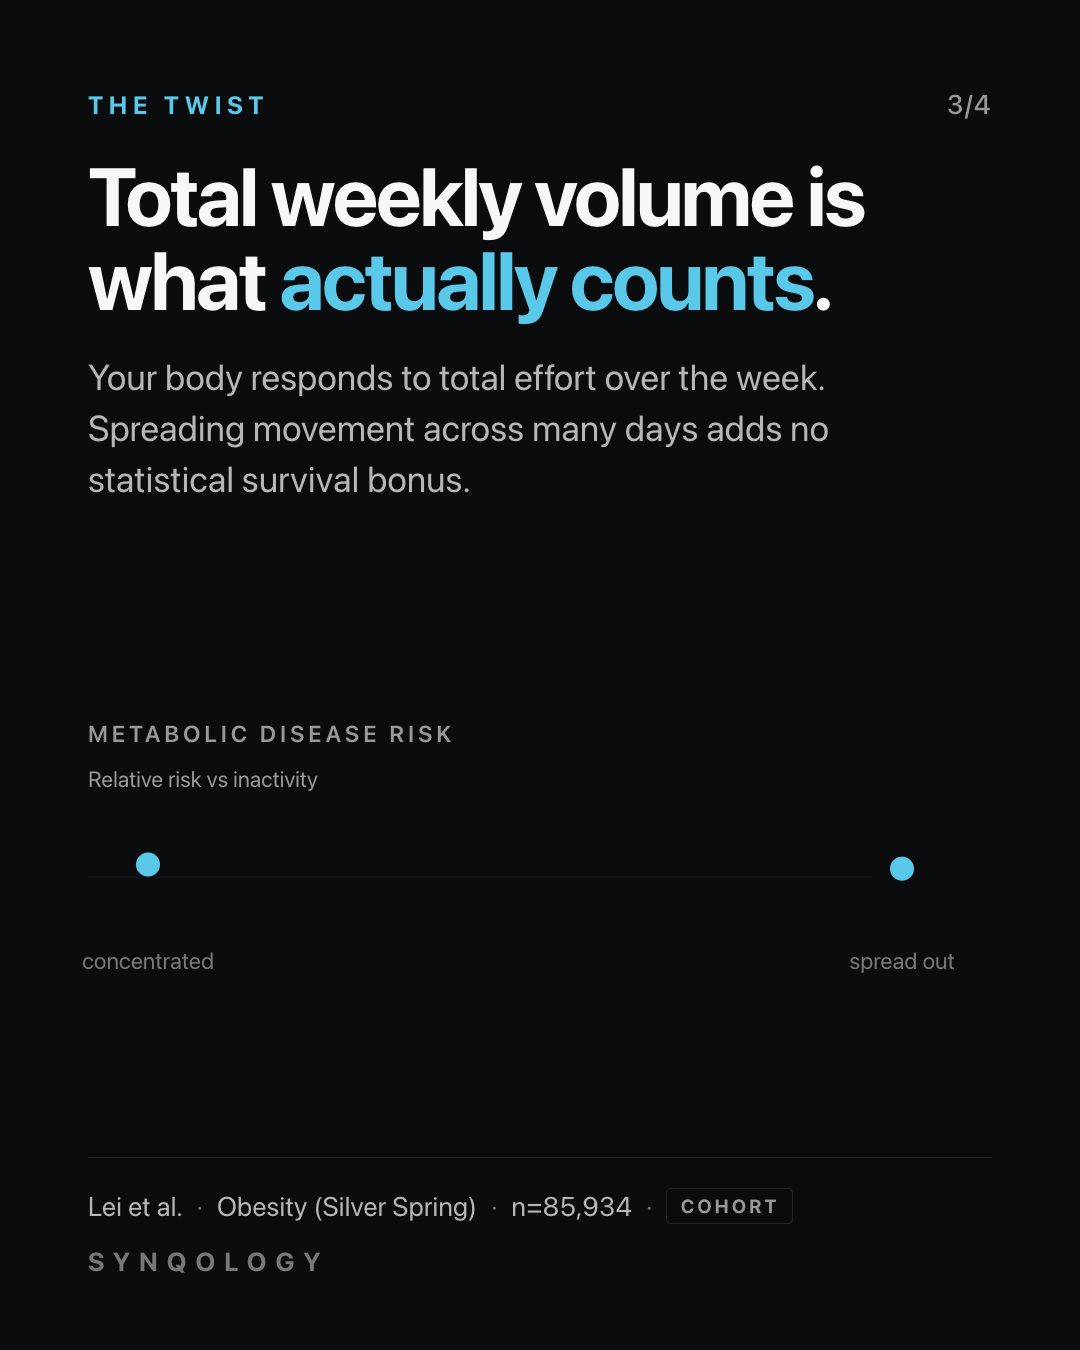
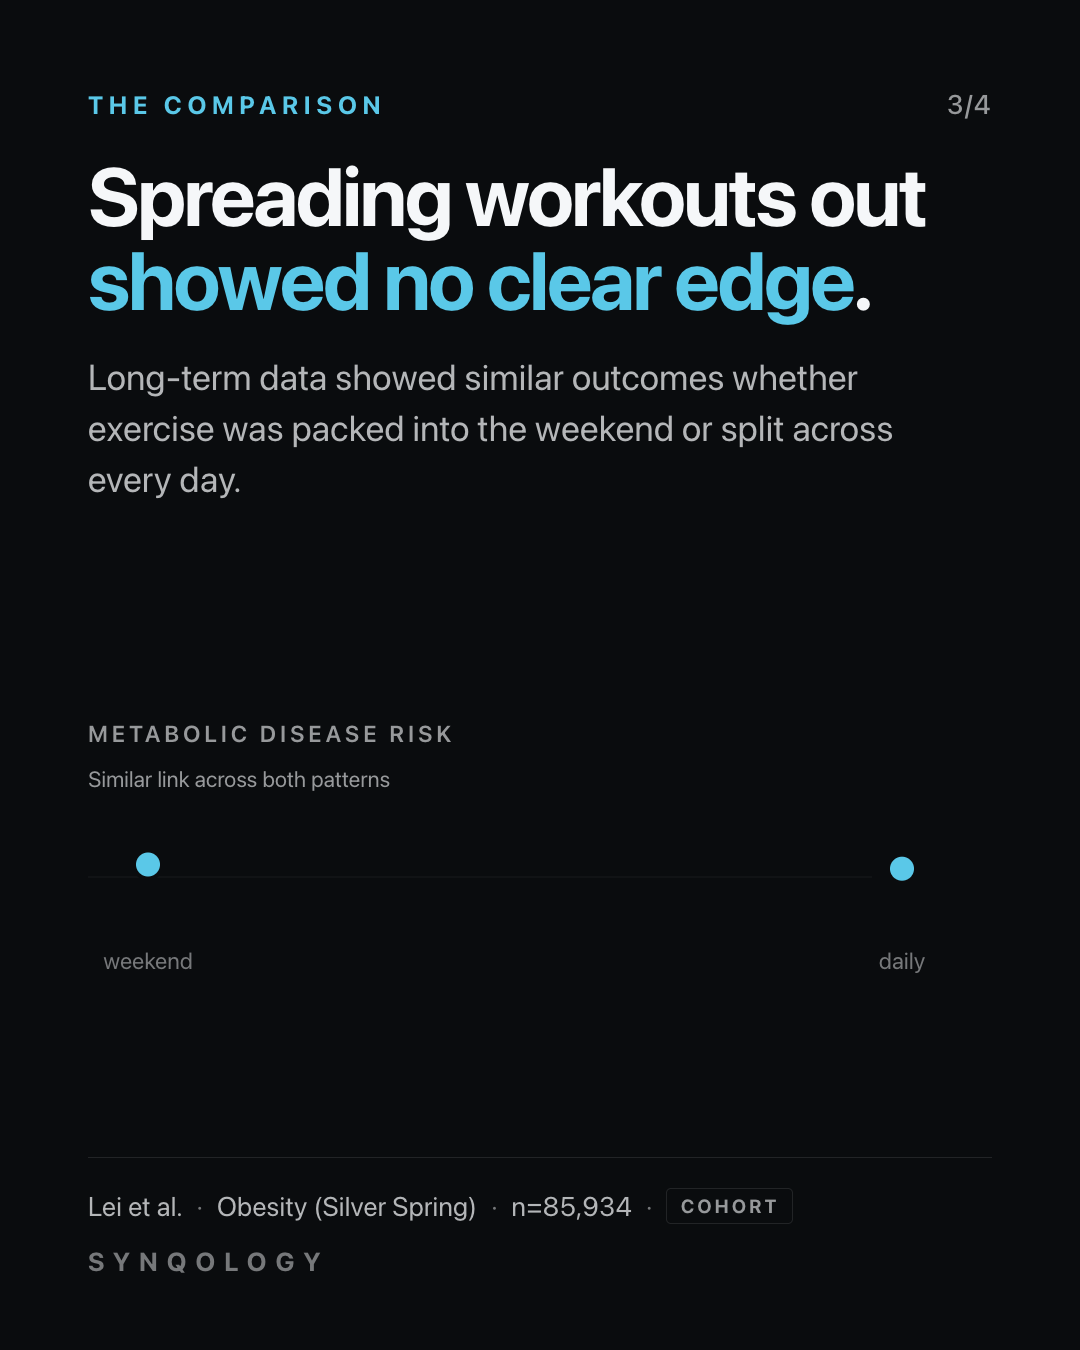
feat(creative): a readability gate — the plain sentence is the headline
The reference format titles itself "What kills you at each age" and demotes
"share of deaths by cause, by age" to a small caption underneath. Ours had that
inverted: the jargon was the headline. That is the difference between content
that travels and content that is merely correct.

The gate refuses clinical vocabulary in the kicker, headline, body and chart
labels, and names the plain replacement in the rejection so it teaches rather
than merely refuses — "cardiovascular" says heart, "mortality" says dying,
"sedentary" says sitting. The precise term still exists; it lives in the source
line, not where somebody decides whether to keep reading. Headlines are capped
at twelve words, labels at three.

It fired immediately on a thirteen-word headline and the rewrite came back
plain.

That exposed the causal gate letting things through. One n=315 tier-C trial
among twenty-one cohort studies was enough to flip "is this experimental" and
unlock "cuts your risk of dying". A trial now has to be tier A or B to carry a
causal claim on its own.

Causal verbs are matched on word boundaries and include bare infinitives, which
substring matching missed — it caught "protects" and not "protect". Bare
"cause", "cut" and "lower" are deliberately excluded: each is also a noun or
adjective in exactly the phrasing this gate exists to encourage. "Linked to
lower risk" is the correct way to report an association, and flagging it would
[…]

diff --git a/provenance/creative.py b/provenance/creative.py
@@ -23,7 +23,7 @@ from enum import Enum
 
 from pydantic import BaseModel, Field
 
-from .models import Appraisal, Claim, Finding, Paper
+from .models import Appraisal, Claim, EvidenceTier, Finding, Paper
 
 log = logging.getLogger(__name__)
 
@@ -175,11 +175,22 @@ def check_copy(
 #: cannot support them however large its cohort, and this is the single most
 #: common way health copy overstates its evidence -- far more common, and far
 #: harder to spot, than an invented figure.
+#: Bare "cause", "cut" and "lower" are deliberately absent. Each is also a noun
+#: or an adjective in exactly the phrasing this gate is trying to ENCOURAGE --
+#: "linked to lower risk" is the correct way to report an association, and
+#: flagging it would push writers back toward the causal wording. Only the
+#: inflected forms, which are unambiguously verbs, are refused.
 _CAUSAL_VERBS = (
-    "causes", "caused", "cuts", "cut ", "reduces", "reduced", "prevents",
-    "prevented", "boosts", "boosted", "improves", "improved", "protects",
-    "protected", "lowers", "lowered", "increases your", "leads to", "makes you",
-    "adds years", "buys you", "gives you",
+    "causes", "caused", "causing",
+    "cuts", "cutting",
+    "reduce", "reduces", "reduced", "reducing",
+    "prevent", "prevents", "prevented", "preventing",
+    "boost", "boosts", "boosted", "boosting",
+    "improve", "improves", "improved", "improving",
+    "protect", "protects", "protected", "protecting",
+    "lowers", "lowered", "lowering",
+    "slash", "slashes", "halve", "halves",
+    "leads to", "makes you", "adds years", "buys you", "gives you",
 )
 
 #: Intensifiers a study result does not license. "Substantial" belongs to the
@@ -201,15 +212,23 @@ _EXPERIMENTAL = ("randomis", "randomiz", "controlled trial", "crossover trial")
 
 
 def _is_observational(appraisals: dict[str, Appraisal], paper_ids: list[str]) -> bool:
-    """True when nothing in the evidence base is experimental."""
-    designs = [
-        (appraisals[pid].design or "").lower()
+    """True unless a STRONG experimental study supports the finding.
+
+    "Any randomised study anywhere in the evidence base" is too low a bar. A
+    single n=315 trial of an intermediate outcome, sitting among twenty-one
+    cohort studies of mortality, is not what licenses "cuts your risk of dying"
+    -- and that is exactly the shape of evidence this system keeps
+    encountering. The trial has to be strong enough to carry the claim on its
+    own, which is what tier A or B means.
+    """
+    strong_experimental = [
+        appraisals[pid]
         for pid in paper_ids
         if pid in appraisals
+        and appraisals[pid].tier in {EvidenceTier.A, EvidenceTier.B}
+        and any(k in (appraisals[pid].design or "").lower() for k in _EXPERIMENTAL)
     ]
-    if not designs:
-        return True
-    return not any(any(k in d for k in _EXPERIMENTAL) for d in designs)
+    return not strong_experimental
 
 
 def check_language(
@@ -228,7 +247,7 @@ def check_language(
             text = (getattr(slide, field, "") or "").lower()
 
             for word in _INTENSIFIERS:
-                if word in text:
+                if re.search(rf"\b{re.escape(word)}\b", text):
                     failures.append(GateFailure(
                         slide=index, field=field,
                         detail=(
@@ -240,7 +259,7 @@ def check_language(
             if not observational:
                 continue
             for verb in _CAUSAL_VERBS:
-                if verb in text:
+                if re.search(rf"\b{re.escape(verb)}\b", text):
                     failures.append(GateFailure(
                         slide=index, field=field,
                         detail=(
@@ -305,6 +324,109 @@ def check_structure(plan: StoryPlan) -> list[GateFailure]:
                 f"this format exists."
             ),
         ))
+    return failures
+
+
+#: Words that carry precise meaning in a paper and none at all on a phone.
+#: The value is the plain replacement, so a rejection teaches rather than
+#: merely refuses.
+_JARGON = {
+    "cardiovascular": "heart",
+    "cardiometabolic": "heart and blood sugar",
+    "cerebrovascular": "stroke",
+    "myocardial": "heart",
+    "mortality": "dying",
+    "all-cause mortality": "dying from anything",
+    "morbidity": "illness",
+    "incidence": "new cases",
+    "prevalence": "how common it is",
+    "adiposity": "body fat",
+    "metabolic": "blood sugar",
+    "glycaemic": "blood sugar",
+    "glycemic": "blood sugar",
+    "cognition": "thinking",
+    "cognitive": "thinking",
+    "adherence": "sticking with it",
+    "biomarker": "blood marker",
+    "longitudinal": "over time",
+    "hazard ratio": "risk",
+    "relative risk": "risk",
+    "confidence interval": "range",
+    "statistically significant": "real, not chance",
+    "dose-response": "more gives more",
+    "sedentary": "sitting",
+    "mvpa": "moderate exercise",
+    "vo2 max": "fitness",
+    "cardiorespiratory fitness": "fitness",
+    "anthropometric": "body size",
+    "attenuated": "weakened",
+    "confounding": "other explanations",
+    "covariate": "other factor",
+    "aetiology": "cause",
+    "etiology": "cause",
+    "comorbidity": "other conditions",
+}
+
+#: The headline has to land before anyone decides to keep watching.
+MAX_HEADLINE_WORDS = 12
+
+#: A band or axis label is read in passing. One or two everyday words.
+MAX_LABEL_WORDS = 3
+
+
+def check_readability(plan: StoryPlan) -> list[GateFailure]:
+    """Refuse copy a reader would have to decode.
+
+    The reference format this borrows from titles itself "What kills you at
+    each age" and demotes "share of deaths by cause, by age" to a small
+    caption underneath. The plain sentence is the headline; the precise one is
+    the footnote. Getting that the wrong way round is the difference between
+    content that travels and content that is technically correct.
+    """
+    failures: list[GateFailure] = []
+
+    for index, slide in enumerate(plan.slides, start=1):
+        for field in ("kicker", "headline", "body"):
+            text = (getattr(slide, field, "") or "")
+            lowered = text.lower()
+            for term, plain in _JARGON.items():
+                if term in lowered:
+                    failures.append(GateFailure(
+                        slide=index, field=field,
+                        detail=(
+                            f"{term!r} is clinical vocabulary. Say {plain!r}. "
+                            f"The precise term belongs in the source line, not "
+                            f"where someone decides whether to keep reading."
+                        ),
+                    ))
+
+        words = len((slide.headline or "").split())
+        if words > MAX_HEADLINE_WORDS:
+            failures.append(GateFailure(
+                slide=index, field="headline",
+                detail=(
+                    f"{words} words. Keep the headline under "
+                    f"{MAX_HEADLINE_WORDS} so it reads at a glance."
+                ),
+            ))
+
+        for label in slide.chart.point_labels:
+            lowered = label.lower()
+            for term, plain in _JARGON.items():
+                if term in lowered:
+                    failures.append(GateFailure(
+                        slide=index, field="chart.point_labels",
+                        detail=f"label {label!r} uses {term!r}; say {plain!r}.",
+                    ))
+            if len(label.split()) > MAX_LABEL_WORDS:
+                failures.append(GateFailure(
+                    slide=index, field="chart.point_labels",
+                    detail=(
+                        f"label {label!r} is too long to read in passing; "
+                        f"{MAX_LABEL_WORDS} words at most."
+                    ),
+                ))
+
     return failures
 
 

diff --git a/tests/test_claims_gate.py b/tests/test_claims_gate.py
@@ -276,3 +276,80 @@ class TestStructure:
         plan = StoryPlan(slides=[self._slide(chart=self._bar(1)) for _ in range(4)])
         failures = check_structure(plan)
         assert any("slides carry a usable chart" in f.detail for f in failures)
+
+
+class TestReadability:
+    """Clinical vocabulary is precise, and it is where a reader stops reading."""
+
+    def test_jargon_in_headline_is_refused_with_a_replacement(self):
+        from provenance.creative import check_readability
+        failures = check_readability(_plan(headline="Lower cardiovascular risk"))
+        assert failures and "'heart'" in failures[0].detail
+
+    def test_mortality_is_refused(self):
+        from provenance.creative import check_readability
+        failures = check_readability(_plan(body="Linked to lower mortality."))
+        assert failures and "dying" in failures[0].detail
+
+    def test_plain_language_passes(self):
+        from provenance.creative import check_readability
+        assert check_readability(_plan(headline="Weekend workouts worked just as well")) == []
+
+    def test_overlong_headline_is_refused(self):
+        from provenance.creative import MAX_HEADLINE_WORDS, check_readability
+        long = " ".join(["word"] * (MAX_HEADLINE_WORDS + 1))
+        failures = check_readability(_plan(headline=long))
+        assert any("at a glance" in f.detail for f in failures)
+
+    def test_jargon_in_a_chart_label_is_refused(self):
+        from provenance.creative import check_readability
+        plan = _plan(chart=ChartPlan(type=ChartType.BAR, claim_ids=["c1", "c2"],
+                                     point_labels=["cardiovascular", "cancer"]))
+        failures = check_readability(plan)
+        assert any(f.field == "chart.point_labels" for f in failures)
+
+    def test_overlong_label_is_refused(self):
+        from provenance.creative import check_readability
+        plan = _plan(chart=ChartPlan(type=ChartType.BAR, claim_ids=["c1"],
+                                     point_labels=["risk of dying from any cause"]))
+        failures = check_readability(plan)
+        assert any("read in passing" in f.detail for f in failures)
+
+    def test_short_plain_labels_pass(self):
+        from provenance.creative import check_readability
+        plan = _plan(chart=ChartPlan(type=ChartType.BAR, claim_ids=["c1", "c2"],
+                                     point_labels=["heart", "cancer"]))
+        assert check_readability(plan) == []
+
+    def test_one_weak_trial_does_not_license_causation(self):
+        """An n=315 trial among twenty-one cohorts is not what carries
+        'cuts your risk of dying'."""
+        from provenance.creative import _is_observational
+        from provenance.models import Appraisal, EvidenceTier
+        weak_trial = Appraisal(paper_id="t", tier=EvidenceTier.C,
+                               design="randomised controlled trial", sample_size=315)
+        cohort = Appraisal(paper_id="c", tier=EvidenceTier.B, design="prospective cohort study")
+        assert _is_observational({"t": weak_trial, "c": cohort}, ["t", "c"]) is True
+
+    def test_bare_infinitive_causal_verbs_are_caught(self):
+        from provenance.creative import check_language
+        for verb in ("protect", "prevent", "reduce", "boost"):
+            plan = _plan(body=f"Long sessions still {verb} your body.")
+            assert check_language(plan, observational=True), verb
+
+    def test_lower_as_an_adjective_is_not_flagged(self):
+        """'linked to lower risk' is the phrasing this gate wants to encourage;
+        flagging it would push writers back toward the causal wording."""
+        from provenance.creative import check_language
+        plan = _plan(headline="Linked to lower risk of early death")
+        assert check_language(plan, observational=True) == []
+
+    def test_lowers_as_a_verb_is_still_flagged(self):
+        from provenance.creative import check_language
+        plan = _plan(headline="Walking lowers your risk")
+        assert check_language(plan, observational=True)
+
+    def test_word_boundaries_prevent_false_positives(self):
+        """'cut' must not fire inside 'haircuts'."""
+        from provenance.creative import check_language
+        assert check_language(_plan(body="Not about haircuts."), observational=True) == []

diff --git a/provenance/agents/storyteller.py b/provenance/agents/storyteller.py
@@ -26,6 +26,7 @@ from ..creative import (
     _is_observational,
     check_copy,
     check_language,
+    check_readability,
     check_structure,
     resolve,
 )
@@ -78,6 +79,23 @@ Four slides:
 3. **The caveat or the twist** -- what people get wrong, or what the study \
 found that contradicts the common belief.
 4. **What to do with it** -- the practical consequence. Concrete and small.
+
+## Write for someone who has never read a paper
+
+This is the constraint most health content fails. Your reader is scrolling on a \
+phone and has about a second to decide whether this is for them. Clinical \
+vocabulary is precise and it is also where they stop reading.
+
+Say "heart" not "cardiovascular". "dying" not "mortality". "blood sugar" not \
+"metabolic". "fitness" not "VO2 max". "sitting" not "sedentary". "risk" not \
+"hazard ratio".
+
+The precise term still exists -- it lives in the source line at the bottom, \
+where someone who wants it will find it. The headline is where somebody decides \
+whether to keep reading, so it gets the plain sentence.
+
+Chart labels are read in passing: one or two everyday words. "heart", "cancer", \
+"accidents". Never "cardiovascular disease incidence".
 
 ## Voice
 
@@ -216,6 +234,7 @@ async def tell(
             check_copy(plan, claims)
             + check_language(plan, observational=observational)
             + check_structure(plan)
+            + check_readability(plan)
         )
         if not failures:
             log.info(
